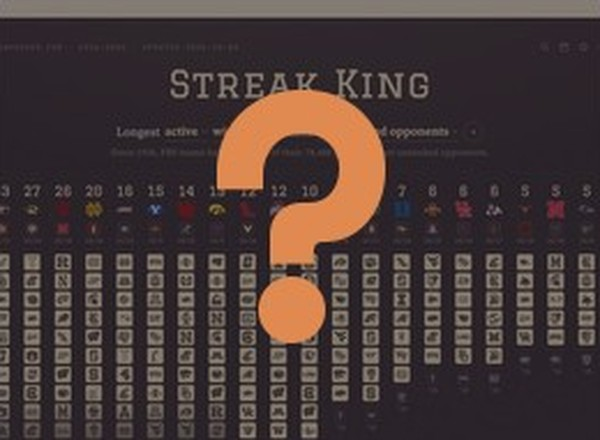
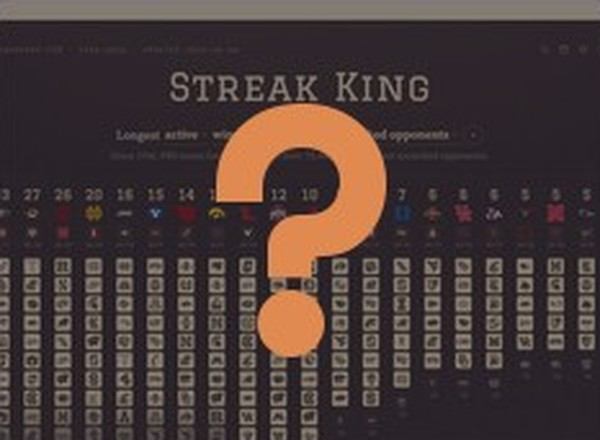
OG cards: keep content inside a centered safe area
Reddit center-crops link cards to about 1.67:1 and labels the bottom
edge, which cut off both cards' left text. Content now sits in a
~980px safe area clear of the bottom band. New filenames so cached
previews refetch.

diff --git a/src/content/blog/building-a-website-with-claude-code-token-cost.md b/src/content/blog/building-a-website-with-claude-code-token-cost.md
@@ -2,7 +2,7 @@
 title: "Guess how many tokens I spent building a college football factoid generator"
 description: "Claude Code tokens and cost for one website, counted across 11 days and 20 sessions. Make your guess, then run the included script on your own project."
 pubDate: 2026-10-07
-heroImage: /blog/building-a-website-with-claude-code-token-cost/og-guess-the-tokens.jpg
+heroImage: /blog/building-a-website-with-claude-code-token-cost/og-guess.jpg
 cardImage: /blog/building-a-website-with-claude-code-token-cost/card-guess.jpg
 aiWritten: true
 tags:

diff --git a/src/content/blog/did-claude-usage-limits-change.md b/src/content/blog/did-claude-usage-limits-change.md
@@ -2,7 +2,7 @@
 title: "Did Claude usage limits change? Fable's weekly meter now costs 1.8x per message"
 description: "How to tell if Claude's Fable weekly limit got pricier: divide the meter by your Claude Code messages and tokens. Drew's went from 0.41% to 0.76% per message."
 pubDate: 2026-11-08
-heroImage: /blog/did-claude-usage-limits-change/og.png
+heroImage: /blog/did-claude-usage-limits-change/og-card.png
 cardImage: /blog/did-claude-usage-limits-change/card.png
 aiWritten: true
 tags:
